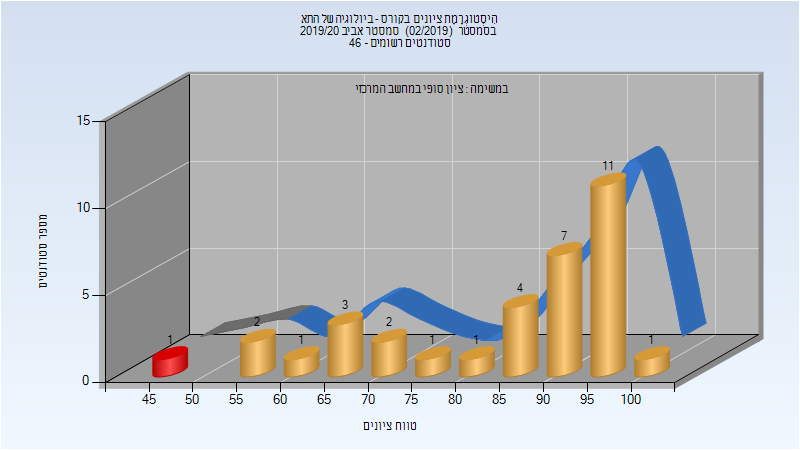
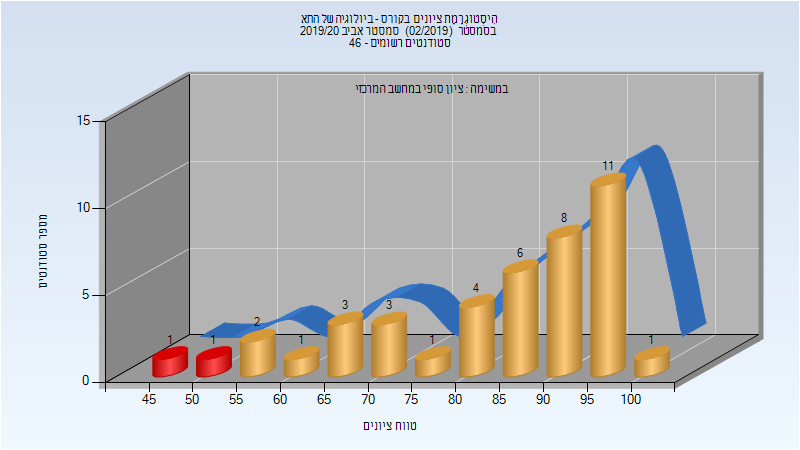
Deploy michael-maltsev/technion-histograms to github.com/michael-maltsev/technion-histograms.git:gh-pages

Changed region(s): [[0.4375, 0.4667, 0.75, 0.8089], [0.2188, 0.6844, 0.375, 0.84], [0.7812, 0.3422, 0.8125, 0.4356]]

diff --git a/134128/index.html b/134128/index.html
@@ -487,6 +487,32 @@
 </tr>
 </tbody>
 </table>
+<h3>סופי מועד ב'</h3>
+<p><img src="201902/Final_B.png" alt="201902 Final_B" /></p>
+<table>
+<thead>
+<tr>
+<th>סטודנטים</th>
+<th>עברו/נכשלו</th>
+<th>אחוז עוברים</th>
+<th>ציון מינימלי</th>
+<th>ציון מקסימלי</th>
+<th>ממוצע</th>
+<th>חציון</th>
+</tr>
+</thead>
+<tbody>
+<tr>
+<td>13</td>
+<td>10/3</td>
+<td>77</td>
+<td>45</td>
+<td>91</td>
+<td>71.231</td>
+<td>72</td>
+</tr>
+</tbody>
+</table>
 <h3>סופי</h3>
 <p><img src="201902/Finals.png" alt="201902 Finals" /></p>
 <table>
@@ -503,13 +529,13 @@
 </thead>
 <tbody>
 <tr>
-<td>34</td>
-<td>33/1</td>
-<td>97</td>
-<td>46</td>
+<td>42</td>
+<td>40/2</td>
+<td>95</td>
+<td>45</td>
 <td>100</td>
-<td>85.294</td>
-<td>92.5</td>
+<td>83.976</td>
+<td>87.5</td>
 </tr>
 </tbody>
 </table>

diff --git a/134040/index.html b/134040/index.html
@@ -279,13 +279,13 @@
 </thead>
 <tbody>
 <tr>
-<td>22</td>
-<td>21/1</td>
-<td>95</td>
-<td>39</td>
+<td>25</td>
+<td>24/1</td>
+<td>96</td>
+<td>51</td>
 <td>100</td>
-<td>79.364</td>
-<td>82.5</td>
+<td>80.12</td>
+<td>81</td>
 </tr>
 </tbody>
 </table>

diff --git a/134119/index.html b/134119/index.html
@@ -481,8 +481,8 @@
 <td>85</td>
 <td>31</td>
 <td>100</td>
-<td>78.042</td>
-<td>82.5</td>
+<td>78.75</td>
+<td>84</td>
 </tr>
 </tbody>
 </table>

diff --git a/134128/README.md b/134128/README.md
@@ -152,11 +152,19 @@
 | ---- | ---- | ---- | ---- | ---- | ---- | ---- |
 | 34 | 33/1 | 97 | 46 | 100 | 85.294 | 92.5 |
 
+### סופי מועד ב'
+
+![201902 Final_B](201902/Final_B.png)
+
+| סטודנטים | עברו/נכשלו | אחוז עוברים | ציון מינימלי | ציון מקסימלי | ממוצע | חציון |
+| ---- | ---- | ---- | ---- | ---- | ---- | ---- |
+| 13 | 10/3 | 77 | 45 | 91 | 71.231 | 72 |
+
 ### סופי
 
 ![201902 Finals](201902/Finals.png)
 
 | סטודנטים | עברו/נכשלו | אחוז עוברים | ציון מינימלי | ציון מקסימלי | ממוצע | חציון |
 | ---- | ---- | ---- | ---- | ---- | ---- | ---- |
-| 34 | 33/1 | 97 | 46 | 100 | 85.294 | 92.5 |
+| 42 | 40/2 | 95 | 45 | 100 | 83.976 | 87.5 |
 

diff --git a/134119/README.md b/134119/README.md
@@ -148,5 +148,5 @@
 
 | סטודנטים | עברו/נכשלו | אחוז עוברים | ציון מינימלי | ציון מקסימלי | ממוצע | חציון |
 | ---- | ---- | ---- | ---- | ---- | ---- | ---- |
-| 48 | 41/7 | 85 | 31 | 100 | 78.042 | 82.5 |
+| 48 | 41/7 | 85 | 31 | 100 | 78.75 | 84 |
 

diff --git a/134040/README.md b/134040/README.md
@@ -86,5 +86,5 @@
 
 | סטודנטים | עברו/נכשלו | אחוז עוברים | ציון מינימלי | ציון מקסימלי | ממוצע | חציון |
 | ---- | ---- | ---- | ---- | ---- | ---- | ---- |
-| 22 | 21/1 | 95 | 39 | 100 | 79.364 | 82.5 |
+| 25 | 24/1 | 96 | 51 | 100 | 80.12 | 81 |
 
